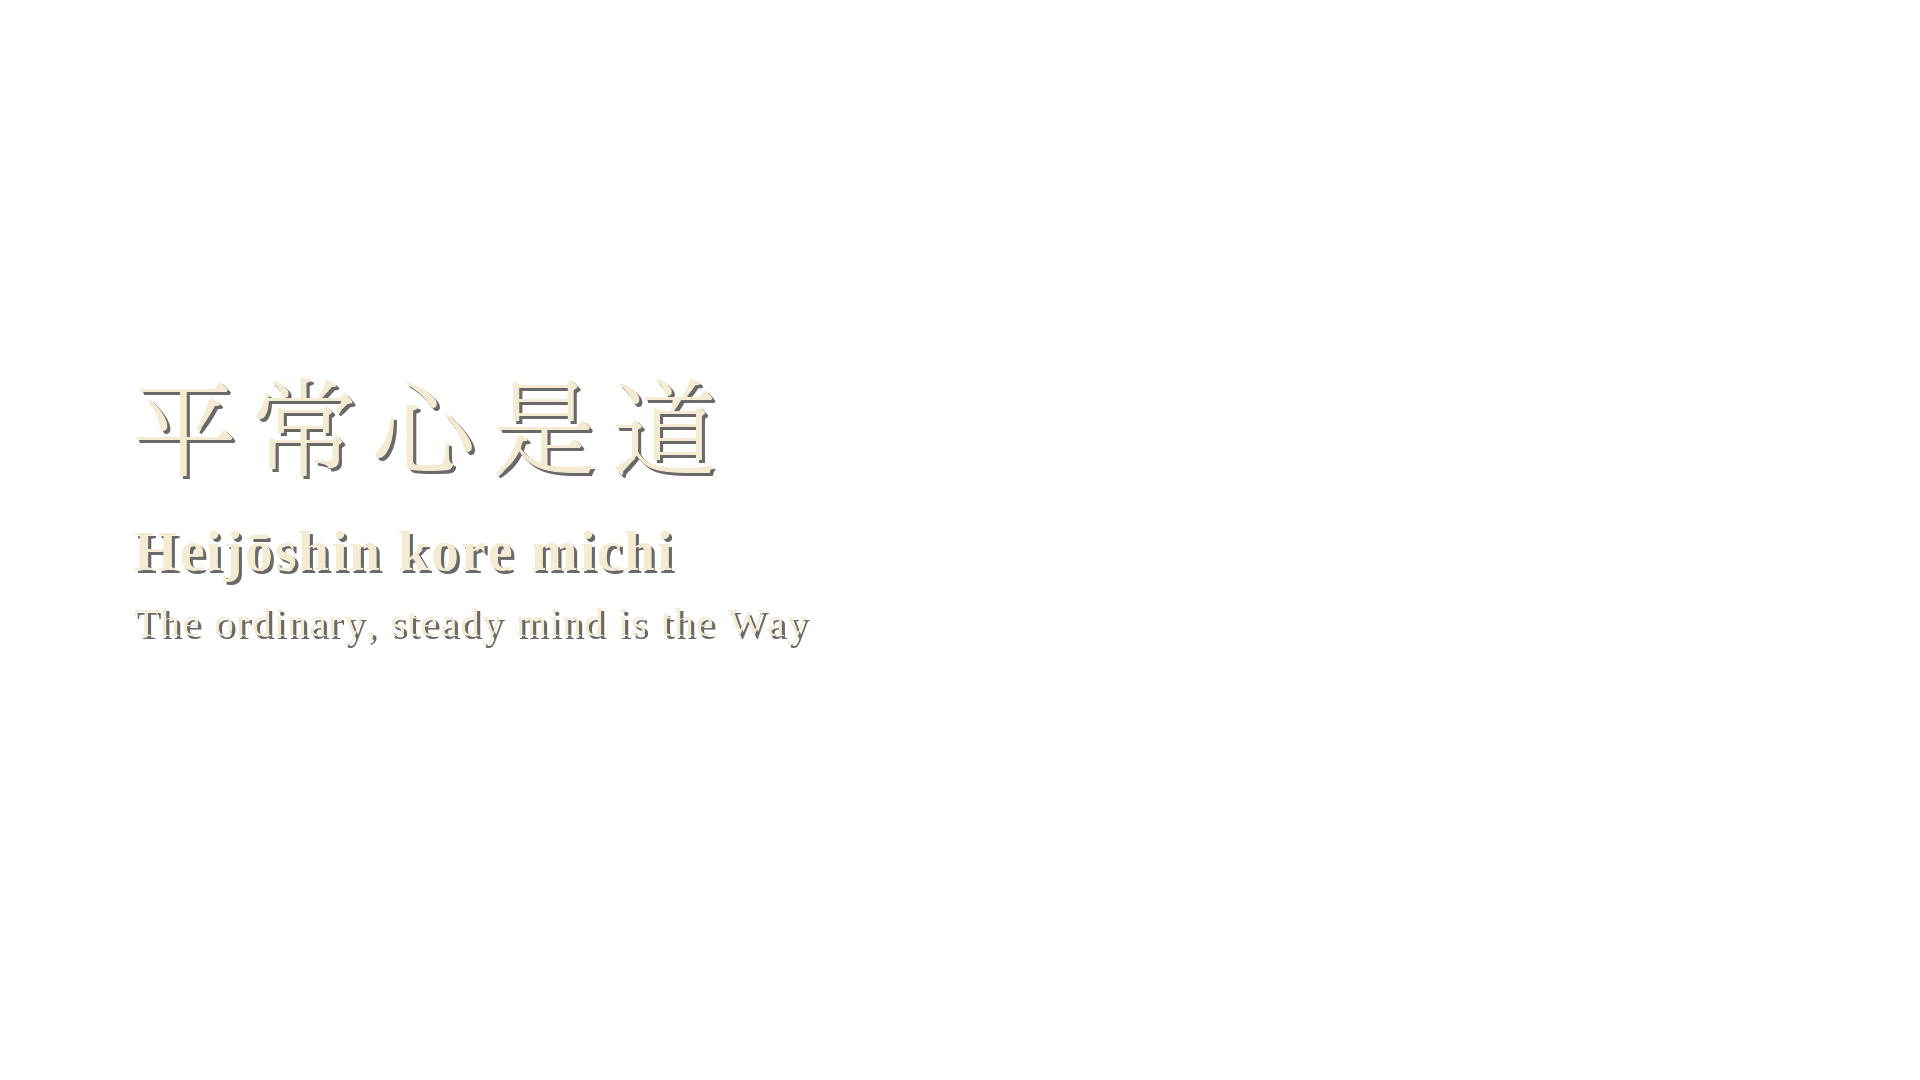
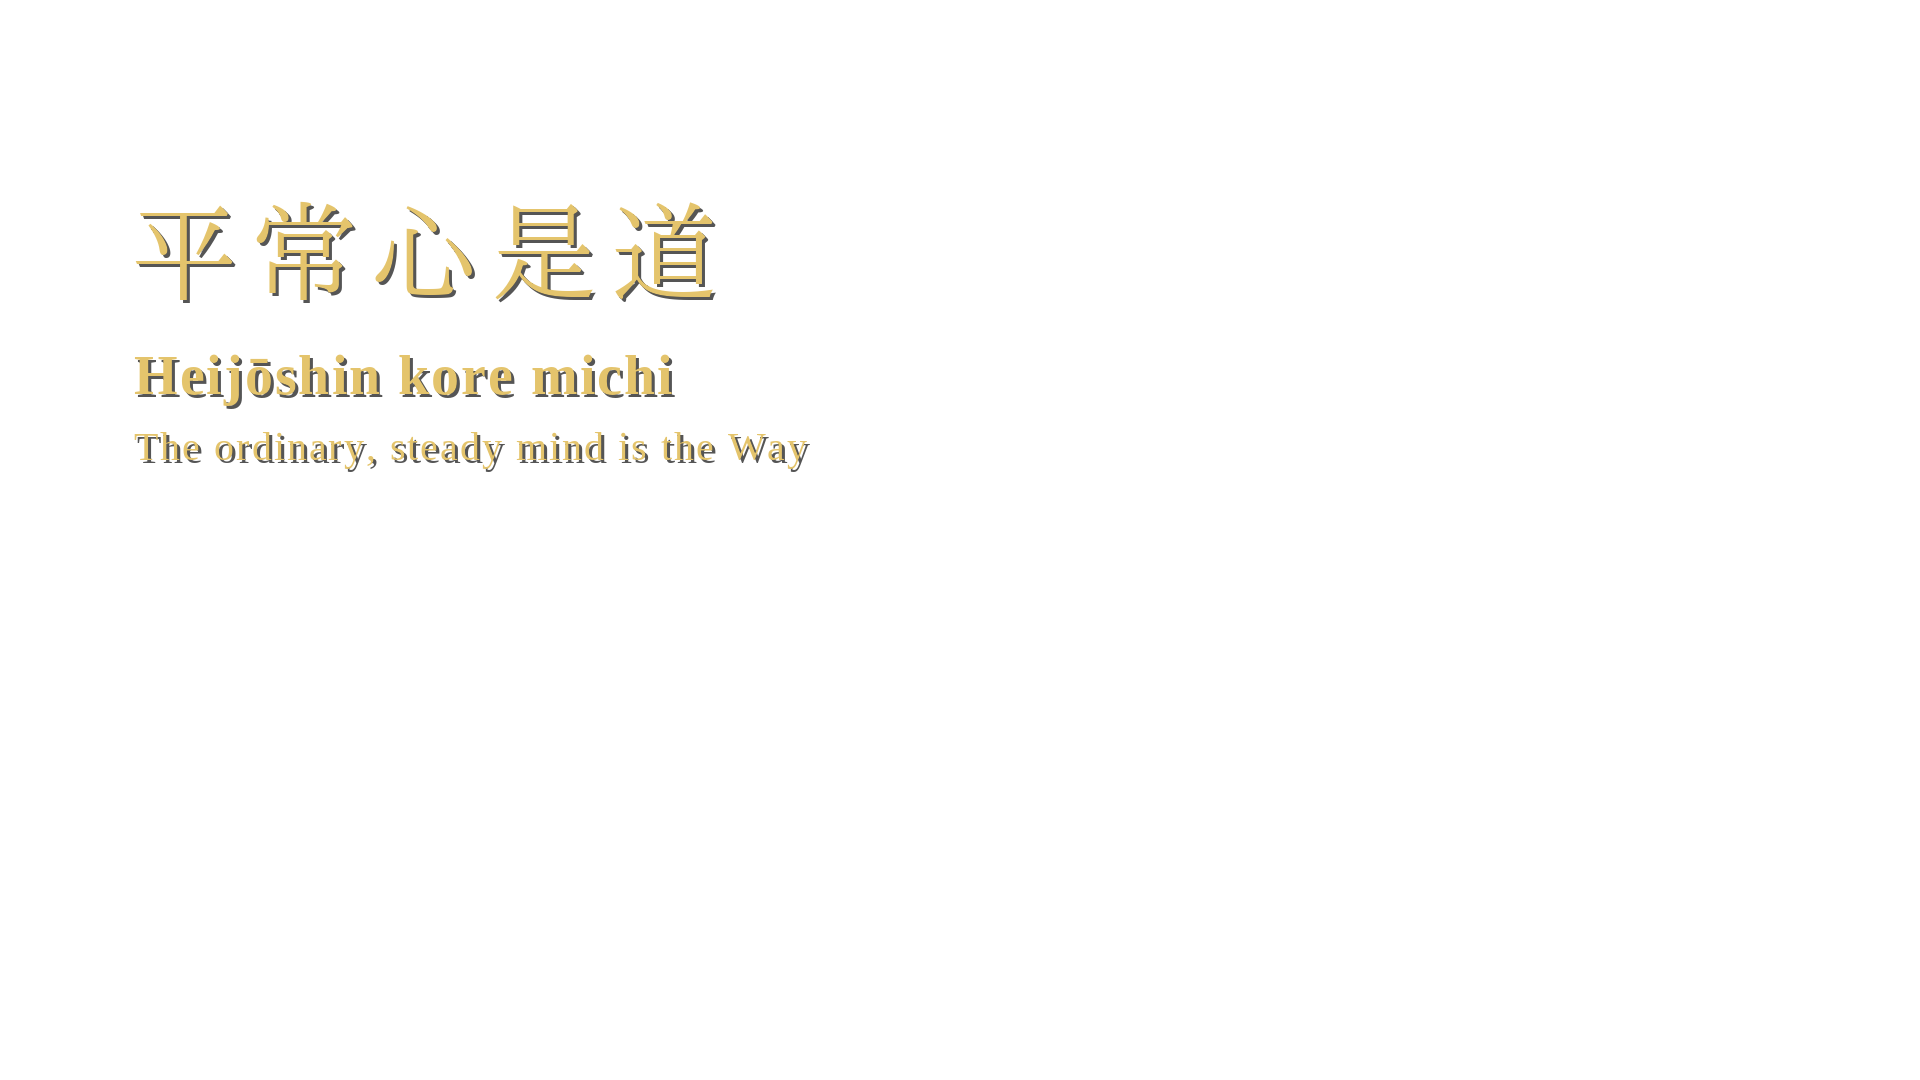
ZANSHIN overlay v2 — gold #E4C46C, raised to upper third
Claude-Session: https://claude.ai/code/session_014rUxCAgr4C7iAmMHbP4fFt

Changed region(s): [[0.0625, 0.4889, 0.4375, 0.6111], [0.0625, 0.3056, 0.4375, 0.4583], [0.0625, 0.1833, 0.375, 0.275]]

diff --git a/stillwave/assets/zanshin-wisdom-overlay.py b/stillwave/assets/zanshin-wisdom-overlay.py
@@ -17,24 +17,24 @@ HERE = Path(__file__).parent
 OUT = HERE / "zanshin-wisdom-overlay.png"
 
 W, H = 1920, 1080
-CREAM = (245, 234, 210, 255)
-SHADOW = (0, 0, 0, 150)
+GOLD = (228, 196, 108, 255)          # #E4C46C — warm gold (matches the sepia hall)
+SHADOW = (0, 0, 0, 170)
 
 KANJI_FONT = "/usr/share/fonts/opentype/ipafont-mincho/ipam.ttf"
 SERIF_BOLD = "/usr/share/fonts/truetype/liberation/LiberationSerif-Bold.ttf"
 SERIF = "/usr/share/fonts/truetype/liberation/LiberationSerif-Regular.ttf"
 
 X = 130
-KANJI = ("平常心是道", 108, 372)
-ROMAJI = ("Heijōshin kore michi", 56, 520)
-GLOSS = ("The ordinary, steady mind is the Way", 40, 600)
+KANJI = ("平常心是道", 108, 196)       # raised into the upper third
+ROMAJI = ("Heijōshin kore michi", 56, 344)
+GLOSS = ("The ordinary, steady mind is the Way", 40, 424)
 
 
 def track(d, xy, text, font, spacing):
     x, y = xy
     for ch in text:
         d.text((x + 3, y + 3), ch, font=font, fill=SHADOW)
-        d.text((x, y), ch, font=font, fill=CREAM)
+        d.text((x, y), ch, font=font, fill=GOLD)
         x += d.textlength(ch, font=font) + spacing
 
 
